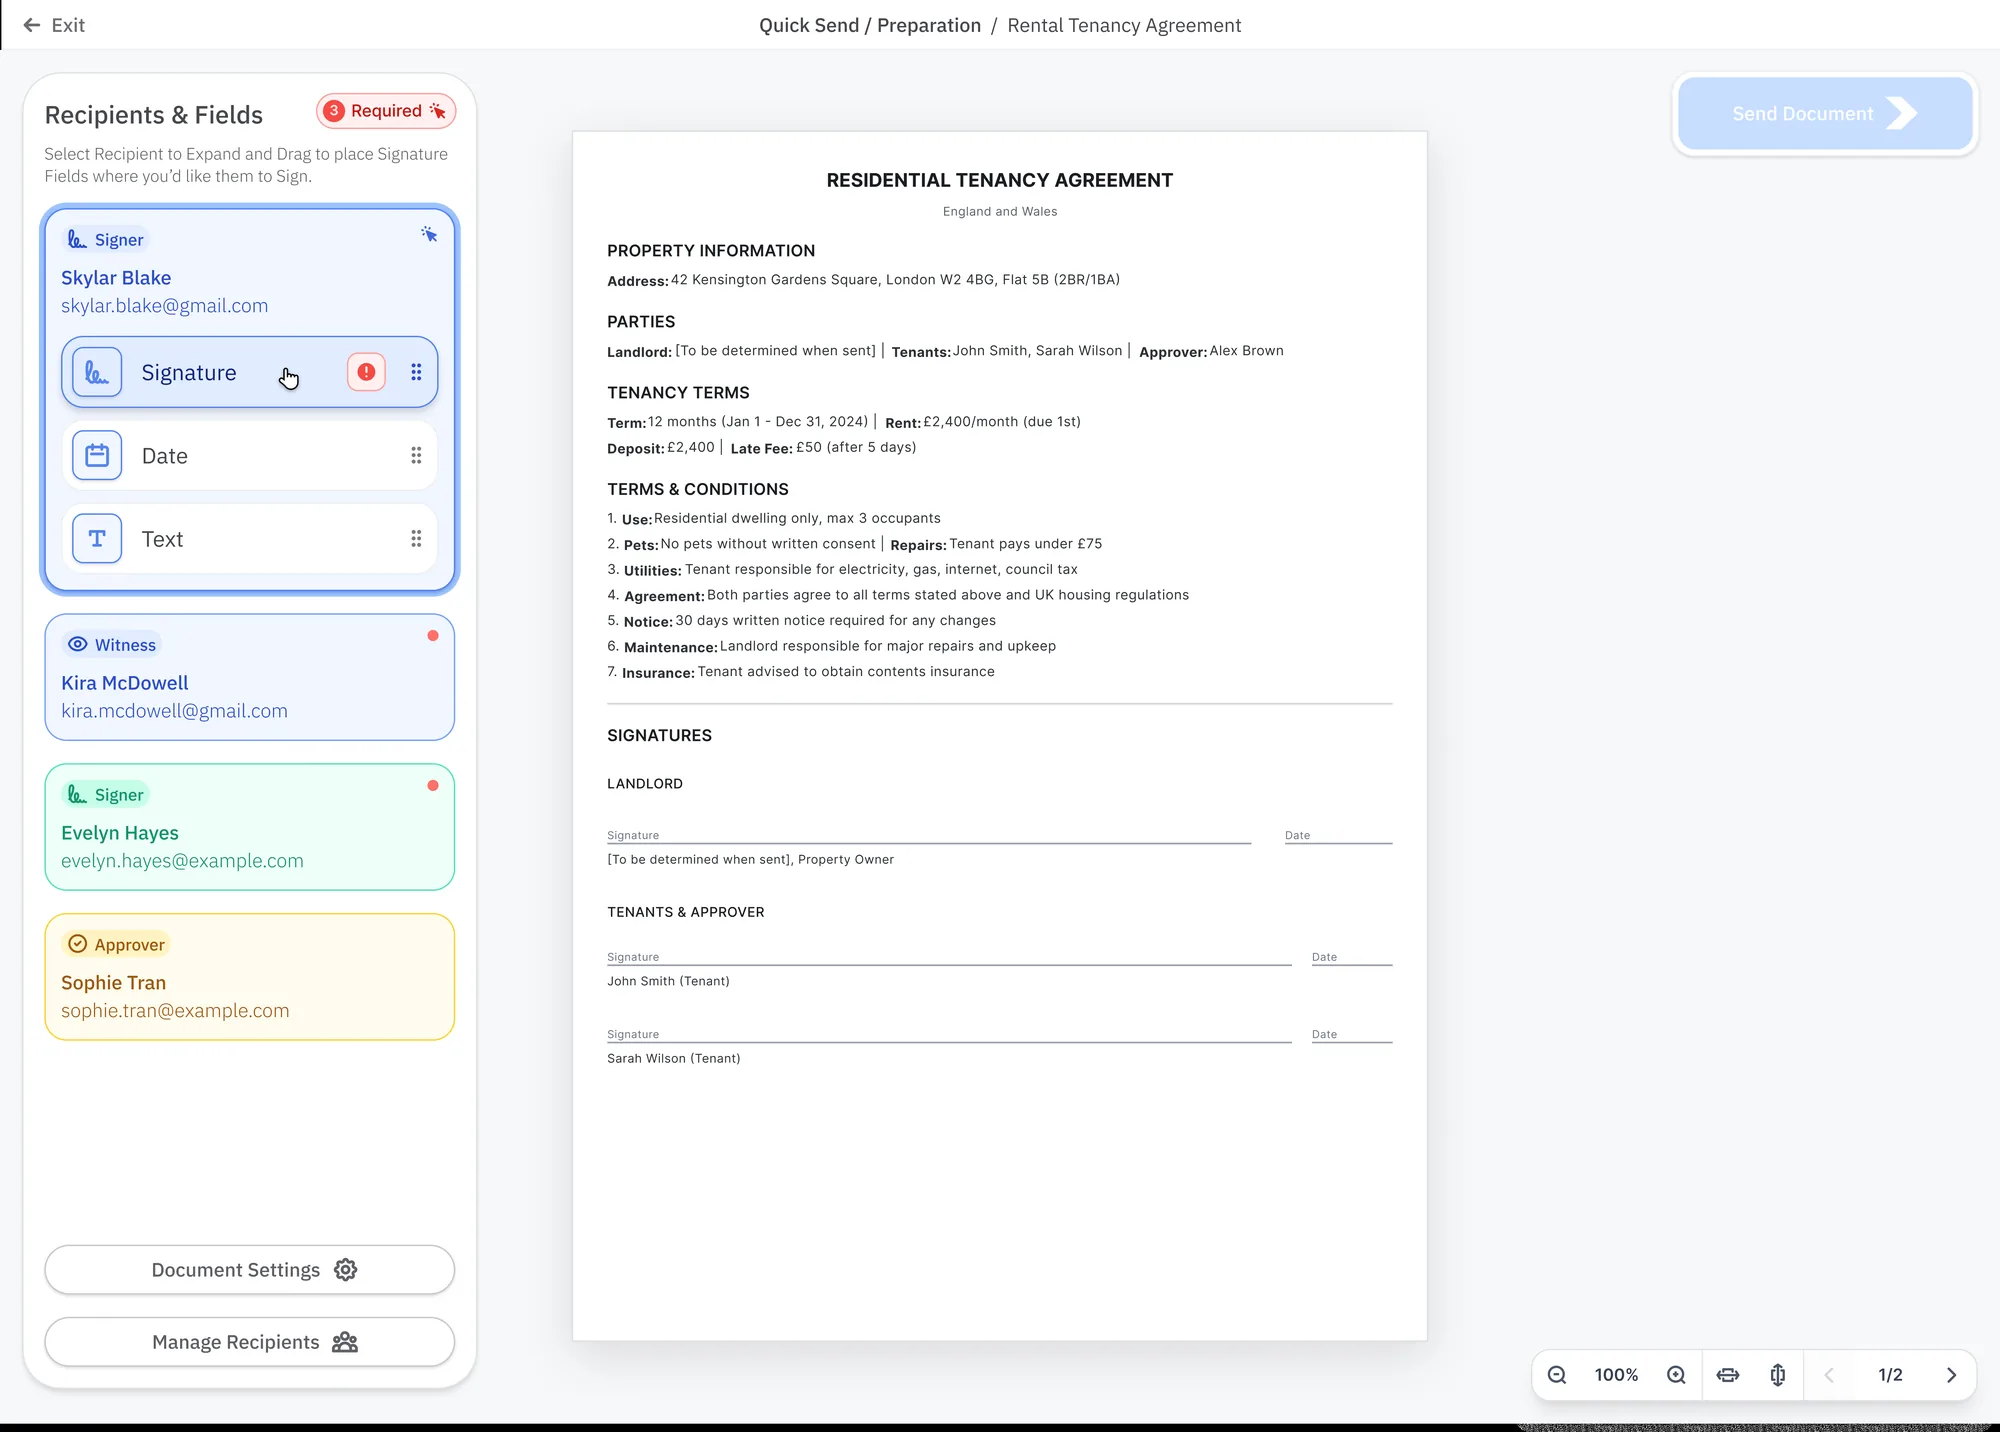
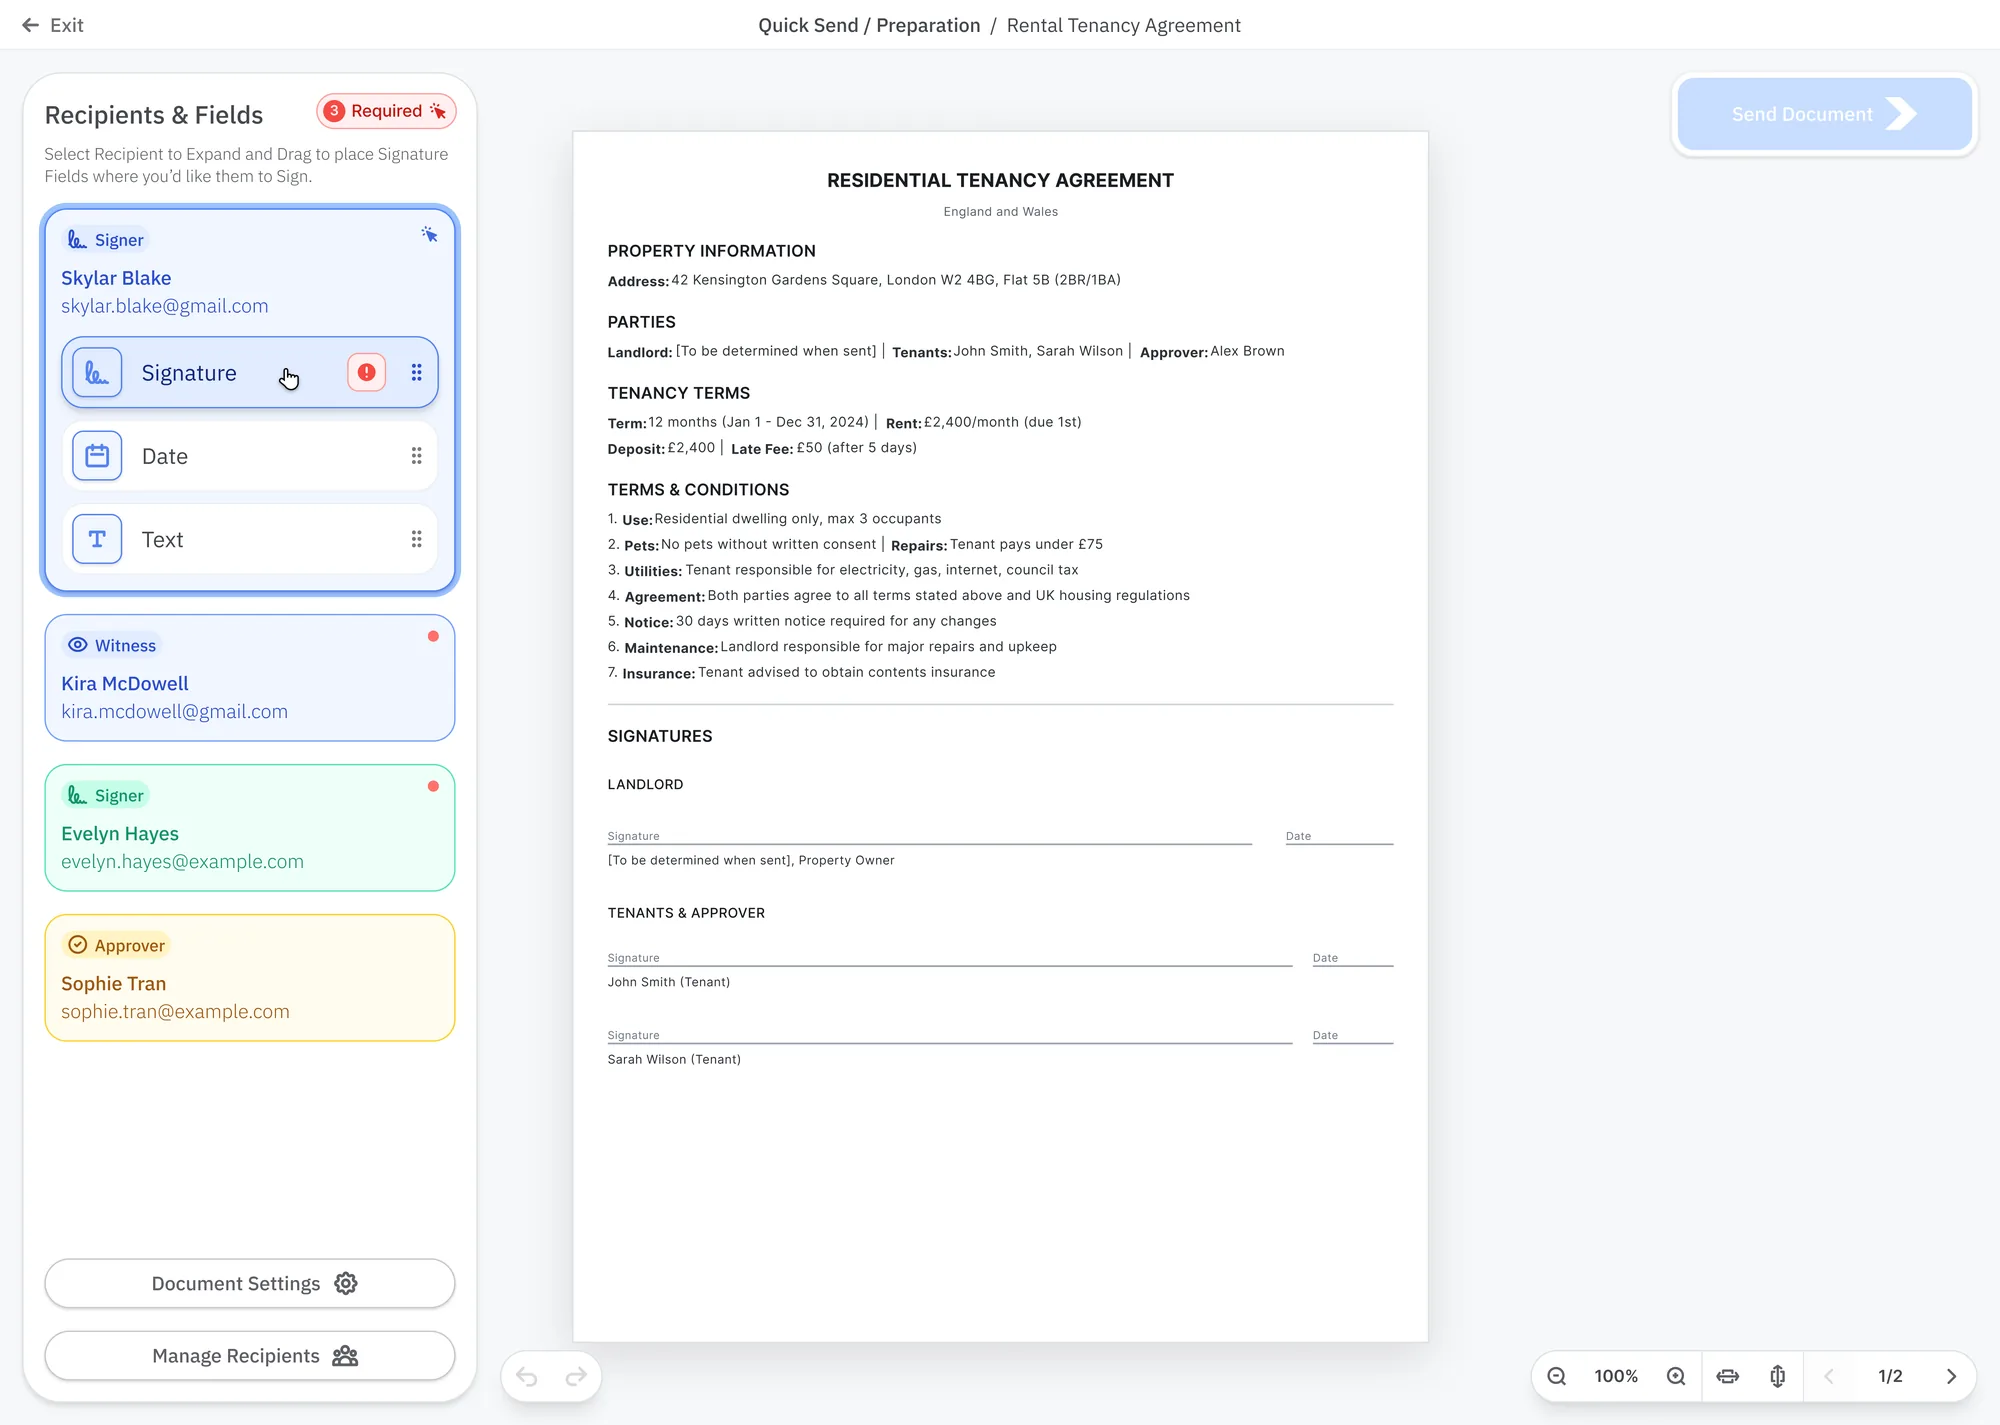
Swap in the updated final Quick Send screen and keep the pop-up above the screens
Claude-Session: https://claude.ai/code/session_014sezJqAyiVMuUZgAteEGKh

diff --git a/src/components/IterationScrubber.tsx b/src/components/IterationScrubber.tsx
@@ -55,7 +55,7 @@ export function IterationScrubber({ items }: { items: Iteration[] }) {
     // Sized so the screen and the bar fit on screen together.
     <div className="mx-auto" style={{ maxWidth: `calc(68vh * ${ratio})` }}>
       <div
-        className="relative overflow-hidden rounded-2xl border border-line bg-raised shadow-2xl shadow-accent/10 md:rounded-3xl"
+        className="relative isolate overflow-hidden rounded-2xl border border-line bg-raised shadow-2xl shadow-accent/10 md:rounded-3xl"
         style={{ aspectRatio: `${ratio}` }}
       >
         {items.map((it, i) =>
